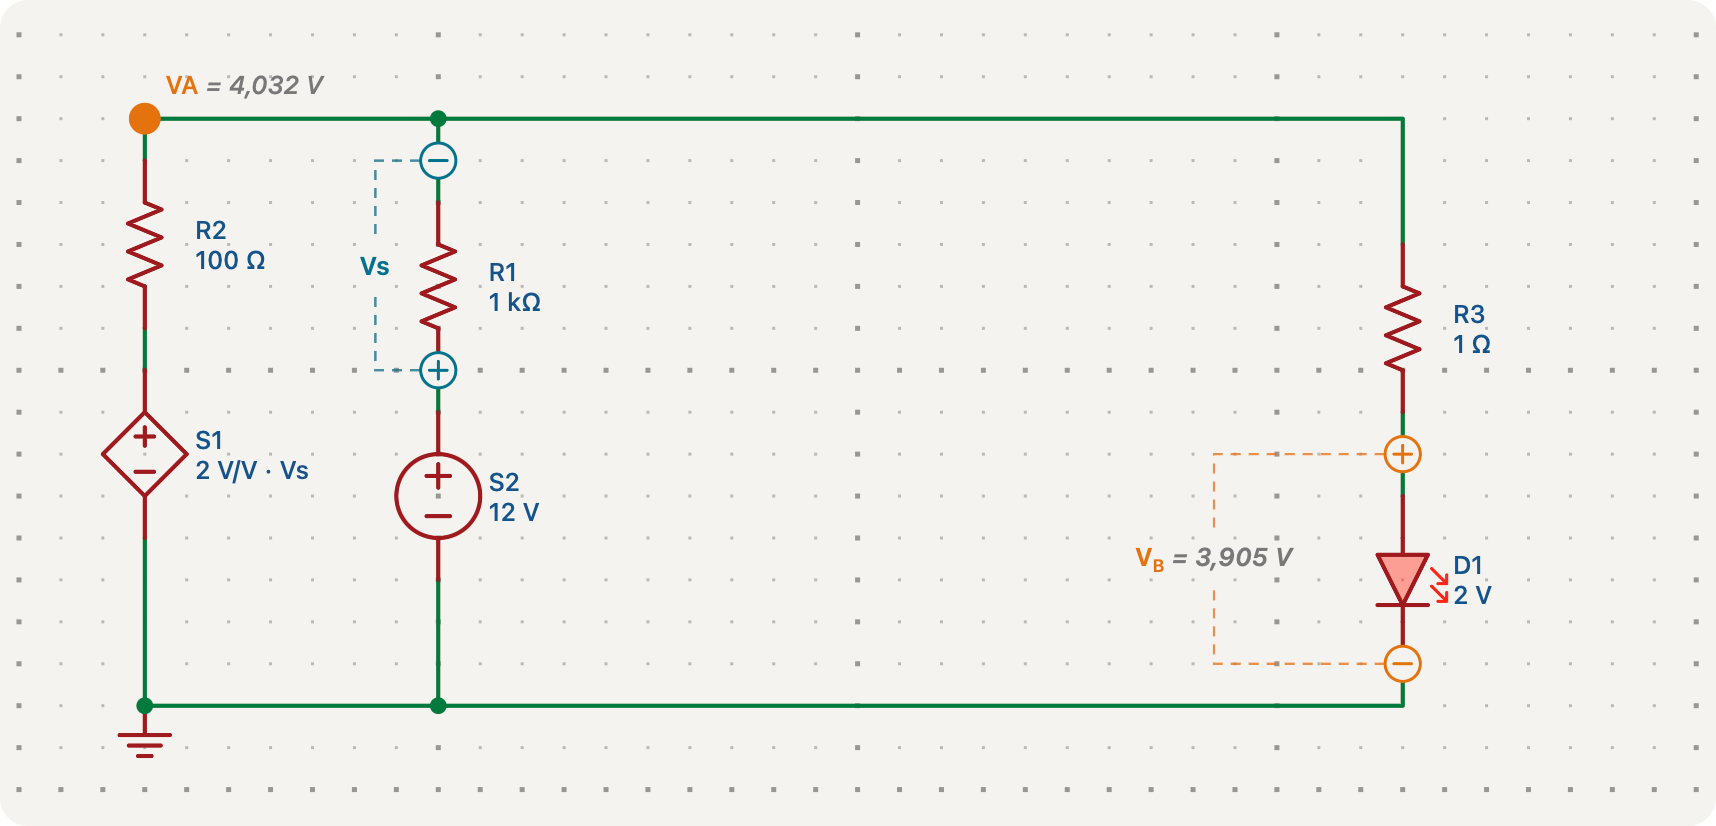
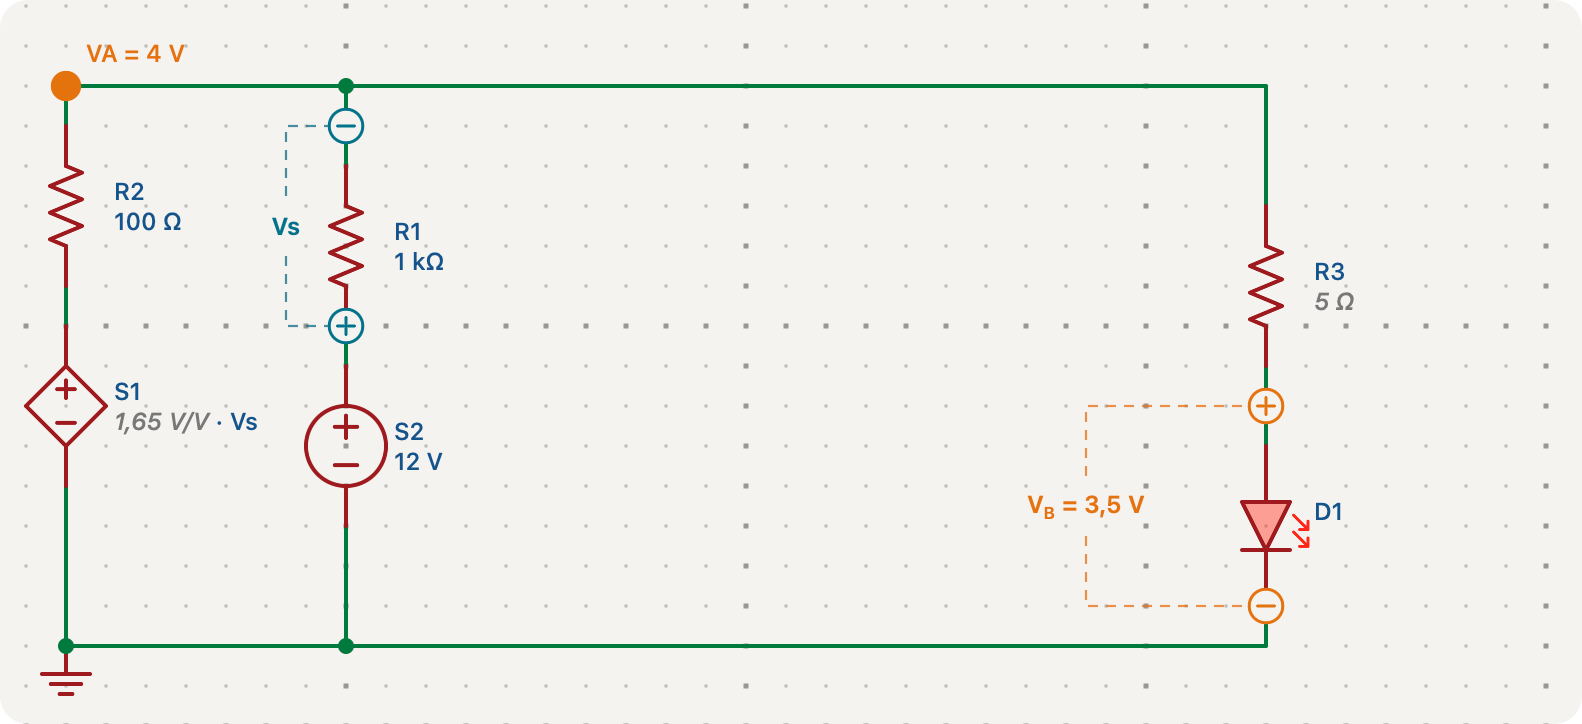
Use a screenshot that shows component values being solved in the README

Changed region(s): [[0.031, 0.0608, 0.8673, 0.9724], [0.6504, 0.6381, 0.7434, 0.7293], [0.0, 0.547, 0.031, 0.5773]]

diff --git a/README.md b/README.md
@@ -24,9 +24,9 @@
 </p>
 
 <p align="center">
-  <img src="docs/screenshot.png" alt="Et kredsløb i JouleSketch med en spændingsstyret kilde, en lysdiode og beregnede spændinger" width="860">
+  <img src="docs/screenshot.png" alt="Et kredsløb i JouleSketch, hvor forstærkningen i en spændingsstyret kilde og en modstand findes ud fra to kendte spændinger" width="860">
   <br>
-  <sub>Kendte værdier står med almindelig skrift; det beregnede (her V<sub>A</sub> og spændingsfaldet V<sub>B</sub> over lysdioden) vises med grå kursiv.</sub>
+  <sub>Skriv de spændinger, du vil have – V<sub>A</sub> = 4 V og V<sub>B</sub> = 3,5 V over lysdioden – og JouleSketch finder komponentværdierne: forstærkningen i S1 og R3 vises med grå kursiv.</sub>
 </p>
 
 ## Hvad kan den?
